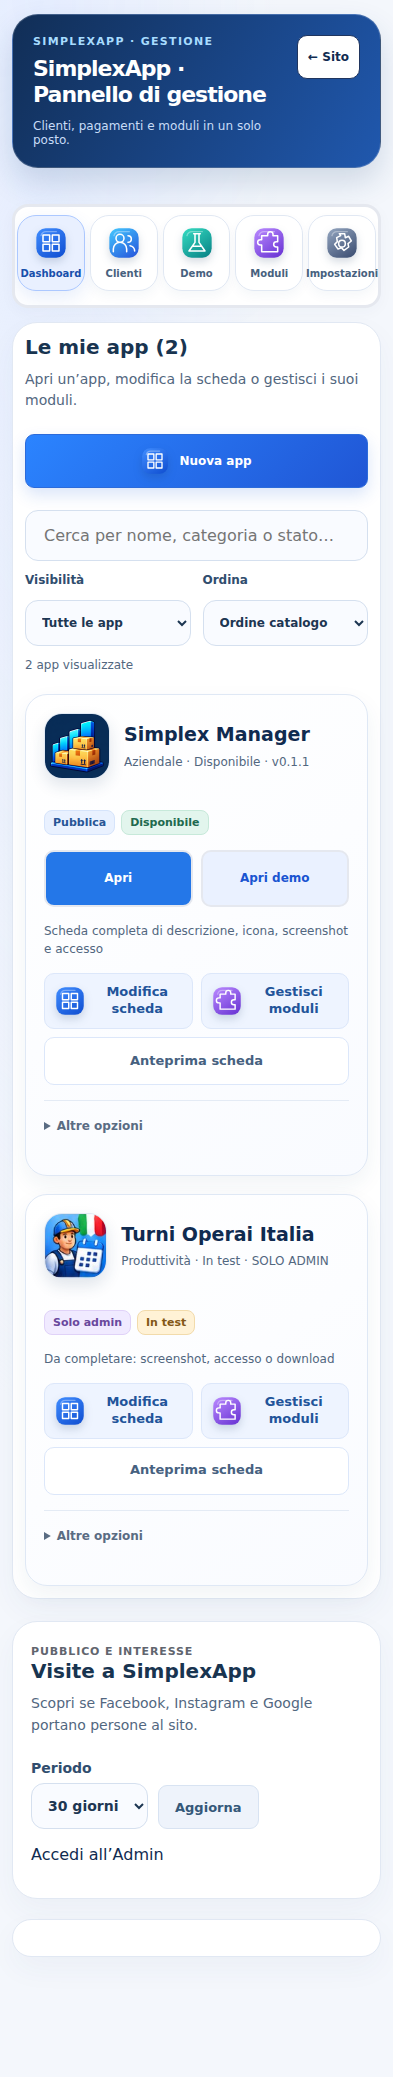
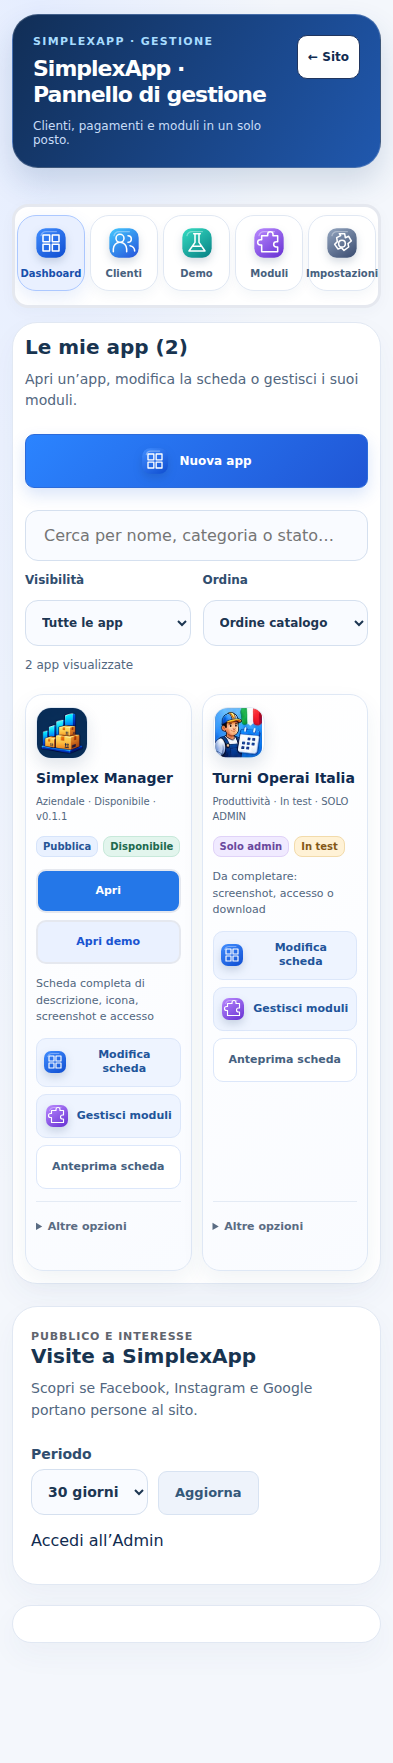
Keep admin app list in two columns on phones

Changed region(s): [[0.0305, 0.0, 0.9771, 0.9047]]

diff --git a/admin-studio.css b/admin-studio.css
@@ -68,7 +68,7 @@ html[data-theme] body #adminView .studio-module-tile input{order:2;margin-left:a
 html[data-theme] body #adminView .studio-module-tile.studio-enabled{background:#eaf3ff;border-color:#8db9fc;box-shadow:0 4px 12px #2468df13}
 html[data-theme] body #adminView .studio-module-tile.studio-disabled{opacity:.6;background:#f1f3f7;box-shadow:none}
 @media(hover:hover){html[data-theme] body #adminView .admin-item:hover{transform:translateY(-3px);box-shadow:0 15px 28px #2148761c}}
-@media(max-width:700px){html[data-theme] body #adminView .admin-wrap{padding:14px 12px 100px}html[data-theme] body #adminView .admin-head{padding:20px;align-items:flex-start;gap:10px}html[data-theme] body #adminView .admin-head>div>div{font-size:12px}html[data-theme] body #adminView .admin-head .backbtn{font-size:12px;padding:10px;flex-shrink:0}html[data-theme] body #adminView #adminList{grid-template-columns:1fr}html[data-theme] body #adminView .admin-card{padding:18px}html[data-theme] body #adminView .admin-item{padding:18px}html[data-theme] body #adminView .admin-tabs button{min-width:88px;font-size:11px;padding:10px 6px}html[data-theme] body #adminView .admin-tabs button>.studio-icon{width:36px;height:36px}html[data-theme] body #adminView .form-grid{grid-template-columns:1fr}html[data-theme] body #adminView .editor-group{padding:14px}html[data-theme] body #adminView .studio-filters p{flex-basis:100%;margin:0}html[data-theme] body #adminView .editor-actions button{flex:1;font-size:12px}html[data-theme] body #adminView #studioDraftStatus{flex-basis:100%}html[data-theme] body #adminView .module-grid,html[data-theme] body #adminView #productModulesList{grid-template-columns:repeat(2,minmax(0,1fr))}html[data-theme] body #adminView .studio-module-tile{flex-wrap:wrap;padding:12px;font-size:12px}html[data-theme] body #adminView .studio-steps button{min-width:135px}html[data-theme] body #adminView .admin-section-title{align-items:flex-start;gap:10px}html[data-theme] body #adminView .admin-section-title .primary{font-size:12px}}
+@media(max-width:700px){html[data-theme] body #adminView .admin-wrap{padding:14px 12px 100px}html[data-theme] body #adminView .admin-head{padding:20px;align-items:flex-start;gap:10px}html[data-theme] body #adminView .admin-head>div>div{font-size:12px}html[data-theme] body #adminView .admin-head .backbtn{font-size:12px;padding:10px;flex-shrink:0}html[data-theme] body #adminView #adminList{grid-template-columns:repeat(2,minmax(0,1fr));gap:10px}html[data-theme] body #adminView .admin-card{padding:18px}html[data-theme] body #adminView .admin-item{padding:18px}html[data-theme] body #adminView .admin-tabs button{min-width:88px;font-size:11px;padding:10px 6px}html[data-theme] body #adminView .admin-tabs button>.studio-icon{width:36px;height:36px}html[data-theme] body #adminView .form-grid{grid-template-columns:1fr}html[data-theme] body #adminView .editor-group{padding:14px}html[data-theme] body #adminView .studio-filters p{flex-basis:100%;margin:0}html[data-theme] body #adminView .editor-actions button{flex:1;font-size:12px}html[data-theme] body #adminView #studioDraftStatus{flex-basis:100%}html[data-theme] body #adminView .module-grid,html[data-theme] body #adminView #productModulesList{grid-template-columns:repeat(2,minmax(0,1fr))}html[data-theme] body #adminView .studio-module-tile{flex-wrap:wrap;padding:12px;font-size:12px}html[data-theme] body #adminView .studio-steps button{min-width:135px}html[data-theme] body #adminView .admin-section-title{align-items:flex-start;gap:10px}html[data-theme] body #adminView .admin-section-title .primary{font-size:12px}}
 @media(prefers-reduced-motion:reduce){html[data-theme] body #adminView *{transition:none!important;animation:none!important}}
 
 body.studio-admin-open>nav{display:none}
@@ -85,3 +85,19 @@ html[data-theme] body #adminView .studio-app-badges span[data-status=private]{ba
 html[data-theme] body #adminView .studio-module-tile>.studio-symbol,html[data-theme] body #adminView .studio-module-tile .studio-icon{display:inline-flex;flex:0 0 37px;width:37px;height:37px;padding:0;margin:0;border:0;border-radius:0;background:none;box-shadow:none}
 html[data-theme] body #adminView #addApp{display:flex;align-items:center;justify-content:center;gap:10px}
 html[data-theme] body #adminView #addApp .studio-icon{width:28px;height:28px}
+
+/* Two app cards per row on phones; actions stack inside each card. */
+@media(max-width:700px){
+ html[data-theme] body #adminView #adminList .admin-item{padding:12px 10px;gap:12px;border-radius:18px}
+ html[data-theme] body #adminView #adminList .admin-app-heading{flex-direction:column;align-items:flex-start;gap:10px;margin-bottom:0}
+ html[data-theme] body #adminView #adminList .admin-app-icon{width:52px;height:52px;flex:0 0 52px;border-radius:15px}
+ html[data-theme] body #adminView #adminList .admin-app-info strong{font-size:14px;line-height:1.35}
+ html[data-theme] body #adminView #adminList .admin-app-info small{font-size:10px;line-height:1.5;overflow-wrap:anywhere}
+ html[data-theme] body #adminView #adminList .studio-app-badges{gap:5px}
+ html[data-theme] body #adminView #adminList .studio-app-badges span{font-size:10px;padding:4px 6px}
+ html[data-theme] body #adminView #adminList .admin-launch-actions,html[data-theme] body #adminView #adminList .admin-manage-actions{flex-direction:column;gap:7px}
+ html[data-theme] body #adminView #adminList .admin-launch-actions a,html[data-theme] body #adminView #adminList .admin-manage-actions button{width:100%;min-height:44px;box-sizing:border-box;font-size:11px;line-height:1.35;padding:9px 6px;flex:auto}
+ html[data-theme] body #adminView #adminList .admin-manage-actions .studio-icon{width:24px;height:24px}
+ html[data-theme] body #adminView #adminList .studio-completeness{font-size:11px;overflow-wrap:anywhere}
+ html[data-theme] body #adminView #adminList .admin-more summary,html[data-theme] body #adminView #adminList .admin-more-actions button{font-size:11px;overflow-wrap:anywhere}
+}

diff --git a/index.html b/index.html
@@ -1,5 +1,5 @@
 <!doctype html><html lang="it"><head><meta charset="utf-8"><meta name="viewport" content="width=device-width,initial-scale=1,viewport-fit=cover"><meta name="theme-color" content="#0d304d"><meta name="description" content="SimplexApp offre gestionali, PWA e app semplici e personalizzabili per aziende, negozi, professionisti e organizzazione del lavoro."><meta name="robots" content="index,follow,max-image-preview:large"><link rel="canonical" href="https://simplexapp.it/"><meta property="og:locale" content="it_IT"><meta property="og:type" content="website"><meta property="og:title" content="SimplexApp · App per te e la tua attività"><meta property="og:description" content="Gestionali, PWA e app semplici e personalizzabili per aziende e professionisti."><meta property="og:image" content="https://simplexapp.it/assets/logo.png"><meta property="og:url" content="https://simplexapp.it/"><meta name="twitter:card" content="summary_large_image"><meta name="twitter:title" content="SimplexApp · App per te e la tua attività"><meta name="twitter:description" content="Gestionali, PWA e app semplici e personalizzabili per aziende e professionisti."><meta name="twitter:image" content="https://simplexapp.it/assets/logo.png"><title>SimplexApp | Gestionali, PWA e app per aziende e professionisti</title><script type="application/ld+json">{"@context":"https://schema.org","@type":"Organization","name":"SimplexApp","url":"https://simplexapp.it/","logo":"https://simplexapp.it/assets/logo.png","description":"Gestionali, PWA e app semplici e personalizzabili per aziende e professionisti."}</script><link rel="manifest" href="manifest.webmanifest"><link rel="icon" type="image/png" sizes="32x32" href="assets/favicon-mascot.png?v=cap-1"><link rel="apple-touch-icon" href="assets/pwa-192.png?v=cap-1"><link rel="stylesheet" href="admin.css?v=21"><link rel="stylesheet" href="style.css?v=15"><link rel="stylesheet" href="premium.css?v=11"><link rel="stylesheet" href="workspace.css?v=4"><link rel="stylesheet" href="design.css?v=16"><link rel="stylesheet" href="visits.css?v=1"><link rel="stylesheet" href="catalog-refresh.css?v=1">  <script src="install-pwa.js?v=5"></script>
-<link rel="stylesheet" href="restyling.css?v=1"><link rel="stylesheet" href="admin-editor-guide.css?v=1"><link rel="stylesheet" href="screenshots-editor.css?v=2"><link rel="stylesheet" href="gestionale-spotlight.css?v=2"><link rel="stylesheet" href="app-detail.css?v=2"><link rel="stylesheet" href="admin-studio.css?v=1"></head><body class="catalog-refresh">
+<link rel="stylesheet" href="restyling.css?v=1"><link rel="stylesheet" href="admin-editor-guide.css?v=1"><link rel="stylesheet" href="screenshots-editor.css?v=2"><link rel="stylesheet" href="gestionale-spotlight.css?v=2"><link rel="stylesheet" href="app-detail.css?v=2"><link rel="stylesheet" href="admin-studio.css?v=2"></head><body class="catalog-refresh">
 <div id="homeView"><main class="app-shell"><div class="cover"><header class="top"><div class="brand home-brand"><img class="home-brand-logo" src="assets/simplexapp-header-horizontal.webp" alt="SimplexApp" width="1024" height="341"><div><strong id="siteTitle">Simplex<em>App</em></strong><span id="siteTagline">Soluzioni digitali per la tua attività</span></div></div><div class="top-actions"><div class="desktop-links"><a href="#catalogo">Applicazioni</a><a href="#soluzioni">Per le aziende</a><a href="#contatti">Contatti</a></div><button id="installBtn" class="pwa-install hidden" type="button" hidden>Installa</button><button class="top-admin" data-view="admin">Area gestione</button></div></header>
 <section class="hero" aria-labelledby="heroTitle"><div class="hero-copy"><span class="hero-kicker">ANDROID · PWA · SOLUZIONI AZIENDALI</span><h1 id="heroTitle">Meno complicazioni.<br><b>Più possibilità.</b></h1><p class="hero-description">App per la vita di ogni giorno.<br>Strumenti digitali per far crescere la tua attività.</p><div class="hero-ctas"><button class="primary" data-view="catalogo">Scopri le applicazioni <span aria-hidden="true">→</span></button><a class="hero-secondary" href="#soluzioni">Soluzioni per aziende</a></div><div class="hero-platforms"><span>Android</span><span>Web &amp; PWA</span><span>Su misura per te</span></div></div></section></div><div class="mini home-benefits"><div><img src="assets/fast.png" alt="">Veloce<br>e sicuro</div><div><img src="assets/fresh.png" alt="">Sempre<br>aggiornato</div><div><img src="assets/together.png" alt="">Tutto<br>insieme</div></div><section class="home-intro" aria-label="Presentazione"><p id="heroText">Gestionali, PWA e app su misura per aziende e professionisti.</p></section>
 <section id="gestionaleSpotlight" class="gestionale-spotlight" aria-labelledby="gestionaleSpotlightTitle" hidden></section>

diff --git a/sw.js b/sw.js
@@ -1,5 +1,5 @@
-const CACHE = "simplex-design-v72";
-const FILES=["admin-studio.css?v=1", "admin-studio.js?v=1", "app-detail.css?v=2", "assets/simplex-manager-demo-mobile.png", "assets/simplex-manager-demo-charts.png", "assets/simplex-manager-demo-desktop.png", "assets/simplex-manager-logo.png", "assets/simplex-manager-512.png", "restyling-ui.js?v=1", "restyling.css?v=1", "assets/premium-cover.webp", "catalog-refresh.css?v=1", "admin-analytics.js?v=2", "simplex-visits.js?v=1", "admin-visits.js?v=3", "visits.css?v=1", "assets/simplexapp-header-horizontal.webp", "tenant-config.js?v=1", "tenant-customization.js?v=1", "design.css?v=16", "./", "premium.css?v=11", "assets/premium-cover.webp?v=cap-1", "index.html", "install-pwa.js?v=5", "workspace.css?v=4", "style.css?v=15", "admin.css?v=21", "app.js?v=45", "admin-editor-guide.js?v=1", "admin-editor-guide.css?v=1", "screenshots-editor.js?v=2", "screenshots-editor.css?v=2", "gestionale-spotlight.js?v=3", "gestionale-spotlight.css?v=2", "media.js?v=4", "vitrine.js?v=6", "product-modules.js?v=1", "contact.js?v=3", "cloud.js?v=10", "manifest.webmanifest", "data/apps.json", "data/site.json", "assets/vg.png", "assets/heart.png", "assets/communication.png", "assets/heart-outline.png", "assets/pwa-512.png?v=cap-1", "assets/favicon-mascot.png?v=cap-1", "assets/avatar.png", "assets/spesa.png", "assets/utility.png", "assets/fast.png", "assets/admin.png", "assets/together.png", "assets/toi.png", "assets/productivity.png", "assets/games.png", "assets/home.png", "assets/catalog.png", "assets/pwa-192.png?v=cap-1", "assets/logo.png", "assets/google-play-badge-it.png", "assets/news.png", "assets/original-0.svg", "assets/mascot.png?v=cap-1", "assets/fresh.png", "assets/grid.png", "assets/star.png", "assets/simplexapp-icon.svg"];
+const CACHE = "simplex-design-v73";
+const FILES=["admin-studio.css?v=2", "admin-studio.js?v=1", "app-detail.css?v=2", "assets/simplex-manager-demo-mobile.png", "assets/simplex-manager-demo-charts.png", "assets/simplex-manager-demo-desktop.png", "assets/simplex-manager-logo.png", "assets/simplex-manager-512.png", "restyling-ui.js?v=1", "restyling.css?v=1", "assets/premium-cover.webp", "catalog-refresh.css?v=1", "admin-analytics.js?v=2", "simplex-visits.js?v=1", "admin-visits.js?v=3", "visits.css?v=1", "assets/simplexapp-header-horizontal.webp", "tenant-config.js?v=1", "tenant-customization.js?v=1", "design.css?v=16", "./", "premium.css?v=11", "assets/premium-cover.webp?v=cap-1", "index.html", "install-pwa.js?v=5", "workspace.css?v=4", "style.css?v=15", "admin.css?v=21", "app.js?v=45", "admin-editor-guide.js?v=1", "admin-editor-guide.css?v=1", "screenshots-editor.js?v=2", "screenshots-editor.css?v=2", "gestionale-spotlight.js?v=3", "gestionale-spotlight.css?v=2", "media.js?v=4", "vitrine.js?v=6", "product-modules.js?v=1", "contact.js?v=3", "cloud.js?v=10", "manifest.webmanifest", "data/apps.json", "data/site.json", "assets/vg.png", "assets/heart.png", "assets/communication.png", "assets/heart-outline.png", "assets/pwa-512.png?v=cap-1", "assets/favicon-mascot.png?v=cap-1", "assets/avatar.png", "assets/spesa.png", "assets/utility.png", "assets/fast.png", "assets/admin.png", "assets/together.png", "assets/toi.png", "assets/productivity.png", "assets/games.png", "assets/home.png", "assets/catalog.png", "assets/pwa-192.png?v=cap-1", "assets/logo.png", "assets/google-play-badge-it.png", "assets/news.png", "assets/original-0.svg", "assets/mascot.png?v=cap-1", "assets/fresh.png", "assets/grid.png", "assets/star.png", "assets/simplexapp-icon.svg"];
 self.addEventListener('install',event=>{event.waitUntil(caches.open(CACHE).then(c=>c.addAll(FILES)).then(()=>self.skipWaiting()))});
 self.addEventListener('activate',event=>{event.waitUntil(caches.keys().then(keys=>Promise.all(keys.filter(k=>k.startsWith('simplex-design-')&&k!==CACHE).map(k=>caches.delete(k)))).then(()=>self.clients.claim()))});
 self.addEventListener('fetch',event=>{if(event.request.method!=='GET'||new URL(event.request.url).origin!==self.location.origin)return;event.respondWith(fetch(event.request,{cache:'no-store'}).then(response=>{if(response.ok){const copy=response.clone();event.waitUntil(caches.open(CACHE).then(c=>c.put(event.request,copy)))}return response}).catch(async()=>{const cached=await caches.match(event.request);if(cached)return cached;if(event.request.mode==='navigate')return caches.match('index.html');return Response.error()}))});

diff --git a/docs/admin-studio/README.md b/docs/admin-studio/README.md
@@ -4,13 +4,13 @@ Questa revisione riguarda il pannello privato di SimplexApp. È preparata su un 
 
 ## Cosa cambia
 
-- Elenco app prima delle statistiche, con ricerca per nome/categoria/stato, filtro pubbliche/solo admin e ordinamento per nome o schede da completare.
+- Elenco app in due colonne anche su smartphone (da 320 px), prima delle statistiche, con ricerca per nome/categoria/stato, filtro pubbliche/solo admin e ordinamento per nome o schede da completare.
 - Schede con icona, indicatori di visibilità e stato, informazioni mancanti e comandi distinti per modifica, moduli e anteprima. Le azioni di eliminazione rimangono in “Altre opzioni” e mantengono la conferma esistente.
 - Editor in cinque sezioni: informazioni; icona e screenshot; foto della scheda; accessi e download; pubblicazione. I campi mantengono ID, valori, upload e gestori di salvataggio esistenti.
 - Anteprima locale dei testi e dell’icona, stato delle modifiche, salvataggio raggiungibile durante lo scorrimento e conferma prima di scartare una modifica.
 - Sezioni Demo e Moduli raggiungibili direttamente; moduli per applicazione con ricerca, icone e stato “In sviluppo”. I moduli non disponibili restano disabilitati. “Aggiorna opzioni dalla PWA” continua a usare il relativo endpoint autenticato esistente.
 - Icone SVG diverse, con gradienti e ombre, navigazione amministrativa visibile anche su 320 px; navigazione pubblica nascosta mentre si gestiscono le app.
-- Asset nuovi inclusi nel service worker v72 e nel generatore di anteprima locale.
+- Asset nuovi inclusi nel service worker v73 e nel generatore di anteprima locale.
 
 ## Confini funzionali
 
